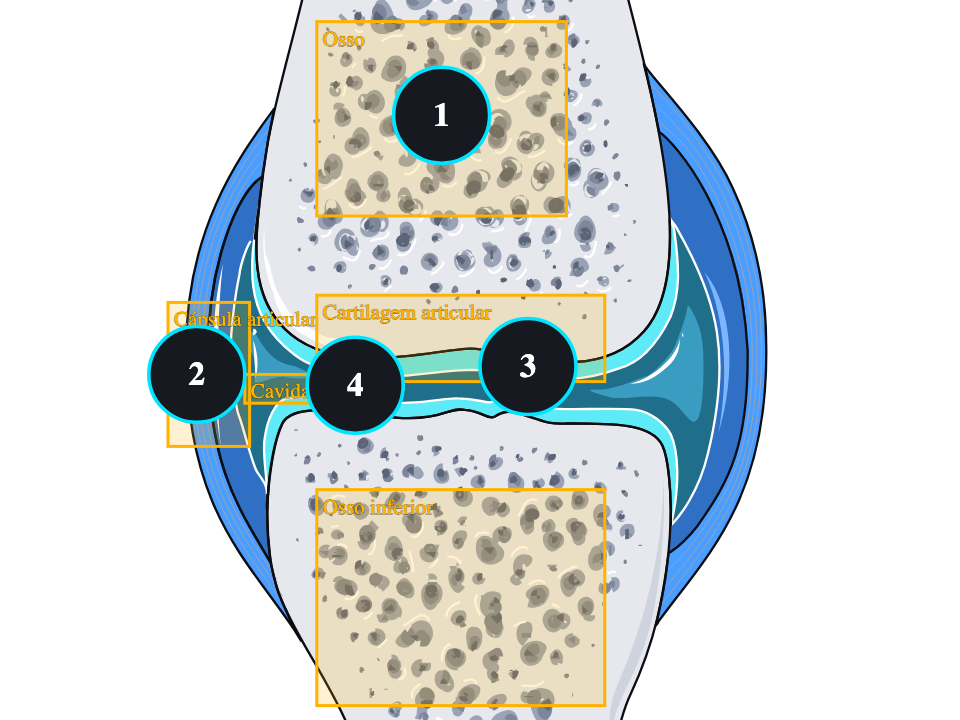
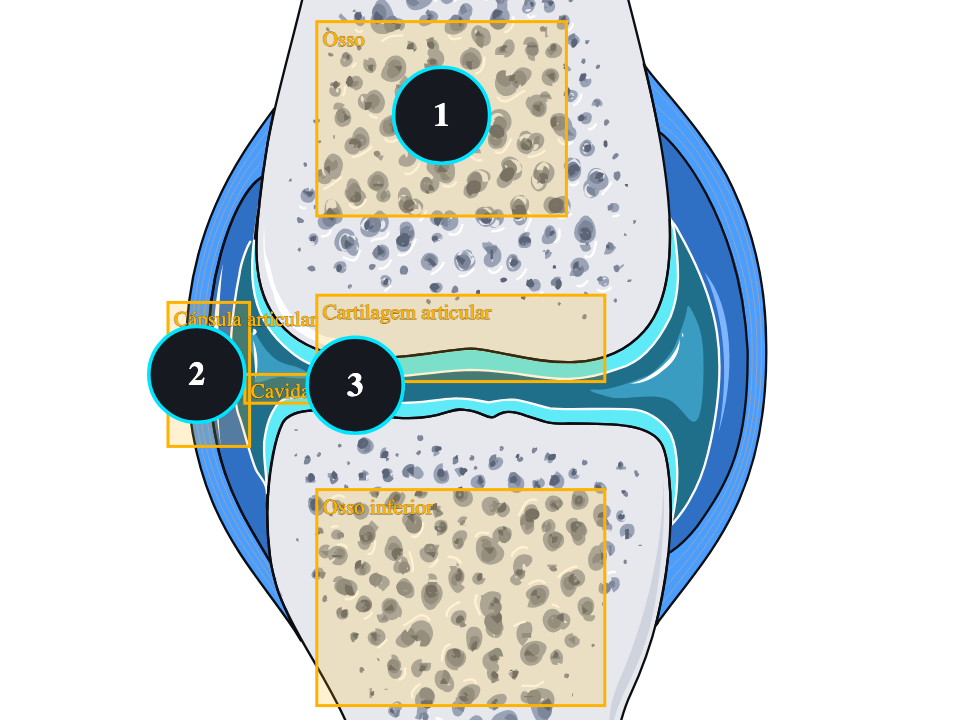
fix(figuras): m18-04 i2 sem a ficha da cartilagem, cobrada no i5; a prévia lê as medidas do app
Os marcadores da cartilagem e da cavidade cobriam as mesmas faixas. O label fica com três fichas e a cartilagem entra
como afirmação verdadeira do blitz. A prévia dos alvos passa a ler o selo de hotspotTouch.ts e o marcador do
LabelStepRenderer.

Changed region(s): [[0.5, 0.4278, 0.625, 0.5806], [0.3438, 0.5194, 0.375, 0.55]]

diff --git a/radiant-app/src/features/student-checkpoints/batches/rtg-2026-m18.ts b/radiant-app/src/features/student-checkpoints/batches/rtg-2026-m18.ts
@@ -6,7 +6,7 @@ export const RTG_2026_M18: ProductionBatchV1 = {
   "schemaVersion": 1,
   "state": "promoted",
   "batchId": "batch:rtg-2026:m18",
[2 lines of base64/hex data omitted]
   "trackId": "track:rtg-2026:m18",
   "unitId": "unit:rtg-2026:m18",
   "contentVersion": "rtg-2026-m18-v1",
@@ -1328,7 +1328,7 @@ export const RTG_2026_M18: ProductionBatchV1 = {
             "completionRule": "confirmed",
             "criticalSafety": false,
             "accessibility": {
-              "label": "Rotular a imagem: Rotule quatro partes da articulação sinovial, tocando na ficha e no ponto. A figura mostra a articulação em corte."
+              "label": "Rotular a imagem: Rotule três partes da articulação sinovial, tocando na ficha e no ponto. A figura mostra a articulação em corte."
             },
             "help": "Comece pelo osso, no alto, e desça até as pontas.",
             "type": "label",
@@ -1337,7 +1337,7 @@ export const RTG_2026_M18: ProductionBatchV1 = {
               "incorrect": "Alguma ficha está no ponto errado: a cápsula envolve o espaço por fora, e a cavidade fica entre as pontas dos ossos."
             },
             "payload": {
-              "prompt": "Rotule quatro partes da articulação sinovial, tocando na ficha e no ponto. A figura mostra a articulação em corte.",
+              "prompt": "Rotule três partes da articulação sinovial, tocando na ficha e no ponto. A figura mostra a articulação em corte.",
               "imageRef": "diagram:articulacao-sinovial",
               "points": [
                 {
@@ -1356,17 +1356,10 @@ export const RTG_2026_M18: ProductionBatchV1 = {
                 },
                 {
                   "id": "point:rtg-2026:m18:aula-04:i2:3",
-                  "x": 0.55,
-                  "y": 0.509,
-                  "where": "a faixa ciano sob a ponta de cima",
-                  "correctLabelId": "label:rtg-2026:m18:aula-04:i2:3"
-                },
-                {
-                  "id": "point:rtg-2026:m18:aula-04:i2:4",
                   "x": 0.37,
                   "y": 0.535,
                   "where": "o espaço azul-petróleo entre as pontas",
-                  "correctLabelId": "label:rtg-2026:m18:aula-04:i2:4"
+                  "correctLabelId": "label:rtg-2026:m18:aula-04:i2:3"
                 }
               ],
               "labels": [
@@ -1376,10 +1369,6 @@ export const RTG_2026_M18: ProductionBatchV1 = {
                 },
                 {
                   "id": "label:rtg-2026:m18:aula-04:i2:3",
-                  "label": "Cartilagem articular"
-                },
-                {
-                  "id": "label:rtg-2026:m18:aula-04:i2:4",
                   "label": "Cavidade articular"
                 },
                 {
@@ -1387,7 +1376,7 @@ export const RTG_2026_M18: ProductionBatchV1 = {
                   "label": "Osso"
                 },
                 {
-                  "id": "label:rtg-2026:m18:aula-04:i2:5",
+                  "id": "label:rtg-2026:m18:aula-04:i2:4",
                   "label": "Tendão"
                 }
               ]
@@ -1559,12 +1548,18 @@ export const RTG_2026_M18: ProductionBatchV1 = {
                 },
                 {
                   "id": "statement:rtg-2026:m18:aula-04:i5:6",
+                  "text": "A cartilagem articular cobre as pontas dos ossos dentro da cápsula.",
+                  "isTrue": true,
+                  "explanation": "Dentro da cápsula, a cartilagem cobre as pontas dos ossos e deixa o movimento liso."
+                },
+                {
+                  "id": "statement:rtg-2026:m18:aula-04:i5:7",
                   "text": "O tendão liga um osso a outro e limita o movimento excessivo.",
                   "isTrue": false,
                   "explanation": "Quem liga osso a osso é o ligamento; o tendão liga músculo a osso."
                 }
               ],
-              "passCount": 5
+              "passCount": 6
             }
           }
         },
@@ -4589,14 +4584,6 @@ export const RTG_2026_M18: ProductionBatchV1 = {
       ]
     },
     {
-      "claimId": "point:rtg-2026:m18:aula-04:i2:4",
-      "claimKind": "prompt",
-      "provenanceKind": "source-backed",
-      "sourceIds": [
-        "source:rtg-2026:m18:openstax-ap-9-4"
-      ]
-    },
-    {
       "claimId": "label:rtg-2026:m18:aula-04:i2:2",
       "claimKind": "correct-answer",
       "provenanceKind": "source-backed",
@@ -4613,14 +4600,6 @@ export const RTG_2026_M18: ProductionBatchV1 = {
       ]
     },
     {
-      "claimId": "label:rtg-2026:m18:aula-04:i2:4",
-      "claimKind": "correct-answer",
-      "provenanceKind": "source-backed",
-      "sourceIds": [
-        "source:rtg-2026:m18:openstax-ap-9-4"
-      ]
-    },
-    {
       "claimId": "label:rtg-2026:m18:aula-04:i2:1",
       "claimKind": "correct-answer",
       "provenanceKind": "source-backed",
@@ -4629,7 +4608,7 @@ export const RTG_2026_M18: ProductionBatchV1 = {
       ]
     },
     {
-      "claimId": "label:rtg-2026:m18:aula-04:i2:5",
+      "claimId": "label:rtg-2026:m18:aula-04:i2:4",
       "claimKind": "distractor",
       "provenanceKind": "authorial-distractor",
       "sourceIds": []
@@ -4864,6 +4843,16 @@ export const RTG_2026_M18: ProductionBatchV1 = {
     },
     {
       "claimId": "statement:rtg-2026:m18:aula-04:i5:6",
+      "claimKind": "prompt",
+      "provenanceKind": "source-backed",
+      "sourceIds": [
+        "source:rtg-2026:m18:openstax-ap-9-1",
+        "source:rtg-2026:m18:openstax-ap-9-4",
+        "source:rtg-2026:m18:openstax-ap-9-5"
+      ]
+    },
+    {
+      "claimId": "statement:rtg-2026:m18:aula-04:i5:7",
       "claimKind": "distractor",
       "provenanceKind": "authorial-distractor",
       "sourceIds": []
@@ -6804,7 +6793,7 @@ export const RTG_2026_M18: ProductionBatchV1 = {
       "reviewerRole": "ai-review-delegated",
       "reviewerRef": "claude-fable-5.1:ADR-2026-11-05",
       "decidedAt": "2026-11-06T00:00:00.000Z",
[2 lines of base64/hex data omitted]
     },
     {
       "schemaVersion": 1,
@@ -6813,7 +6802,7 @@ export const RTG_2026_M18: ProductionBatchV1 = {
       "reviewerRole": "ai-review-delegated",
       "reviewerRef": "claude-fable-5.1:ADR-2026-11-05",
       "decidedAt": "2026-11-06T00:00:00.000Z",
[2 lines of base64/hex data omitted]
     },
     {
       "schemaVersion": 1,
@@ -6822,7 +6811,7 @@ export const RTG_2026_M18: ProductionBatchV1 = {
       "reviewerRole": "ai-review-delegated",
       "reviewerRef": "claude-fable-5.1:ADR-2026-11-05",
       "decidedAt": "2026-11-06T00:00:00.000Z",
[2 lines of base64/hex data omitted]
     },
     {
       "schemaVersion": 1,
@@ -6831,7 +6820,7 @@ export const RTG_2026_M18: ProductionBatchV1 = {
       "reviewerRole": "ai-review-delegated",
       "reviewerRef": "claude-fable-5.1:ADR-2026-11-05",
       "decidedAt": "2026-11-06T00:00:00.000Z",
[2 lines of base64/hex data omitted]
     },
     {
       "schemaVersion": 1,
@@ -6840,7 +6829,7 @@ export const RTG_2026_M18: ProductionBatchV1 = {
       "reviewerRole": "ai-review-delegated",
       "reviewerRef": "claude-fable-5.1:ADR-2026-11-05",
       "decidedAt": "2026-11-06T00:00:00.000Z",
[2 lines of base64/hex data omitted]
     },
     {
       "schemaVersion": 1,
@@ -6849,7 +6838,7 @@ export const RTG_2026_M18: ProductionBatchV1 = {
       "reviewerRole": "ai-review-delegated",
       "reviewerRef": "claude-fable-5.1:ADR-2026-11-05",
       "decidedAt": "2026-11-06T00:00:00.000Z",
[2 lines of base64/hex data omitted]
     }
   ],
   "promotedAt": "2026-11-06T00:00:00.000Z",
